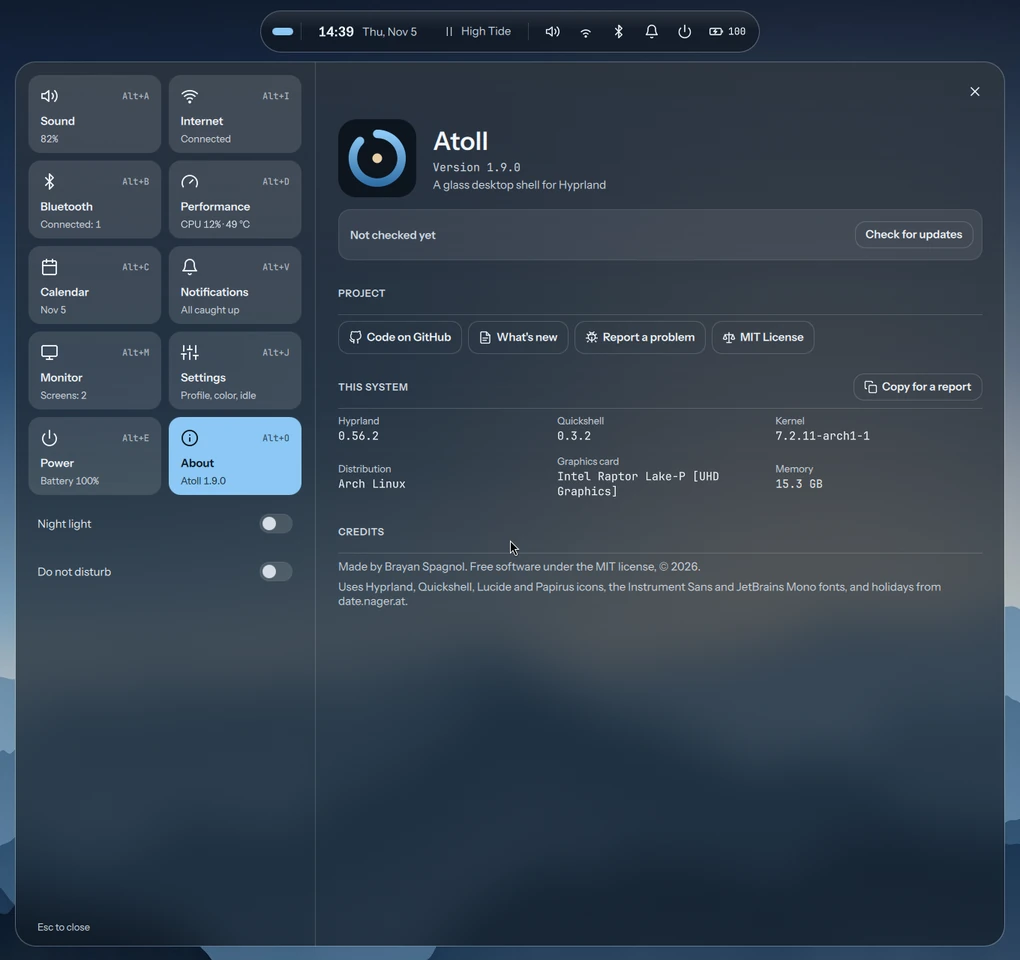
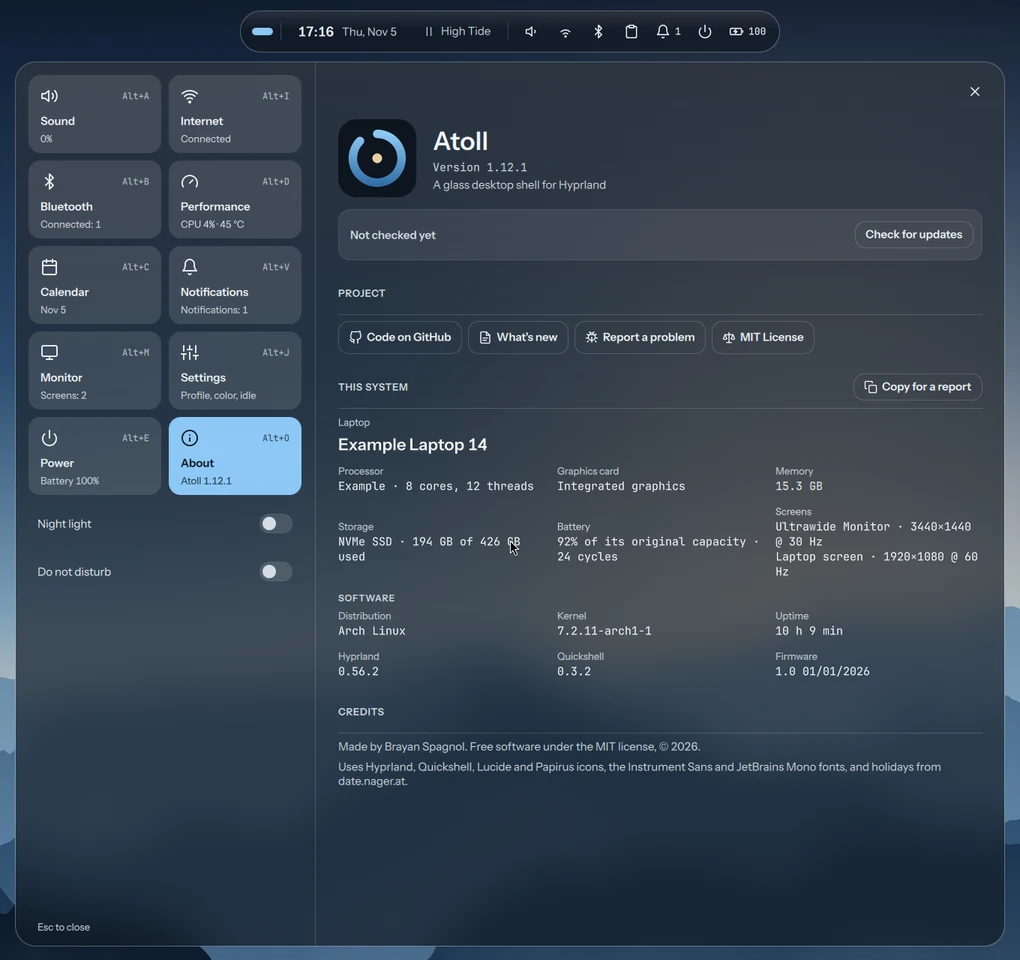
feat: computer details in About

diff --git a/shell/PgAbout.qml b/shell/PgAbout.qml
@@ -18,7 +18,15 @@ Page {
     property string updateError: ""
     property bool packaged: false // installed by a package manager, which then owns updates
     readonly property bool hasUpdate: !!latest && P.newerVersion(latest, Ui.version)
-    readonly property string report: "Atoll " + Ui.version + "\n" + facts.trim() + "\nMemory=" + P.bytes(Sys.memInfo.total)
+    readonly property string model: P.modelName(info.Vendor, info.Product, info.ProductVersion)
+    readonly property string kind: P.chassisKind(info.Chassis)
+    readonly property string cpu: P.cpuName(info.CPU) + (info.Threads ? " · " + Tr.t("%1 cores, %2 threads").arg(info.Cores || "?").arg(info.Threads) : "")
+    readonly property string disk: info.DiskSize ? (info.Disk ? info.Disk + " · " : "") + Tr.t("%1 of %2 used").arg(P.bytes(Number(info.DiskUsed))).arg(P.bytes(Number(info.DiskSize))) : ""
+    readonly property string battery: info.BatteryHealth ? Tr.t("%1% of its original capacity").arg(info.BatteryHealth) + (info.BatteryCycles && info.BatteryCycles !== "0" ? " · " + Tr.t("%1 cycles").arg(info.BatteryCycles) : "") : ""
+    readonly property string screens: Displays.monitors.filter(m => m.on).map(m => Displays.labelOf(m) + " · " + m.w + "×" + m.h + " @ " + Math.round(Number(m.rate)) + " Hz").join("\n")
+    readonly property string report: ["Atoll " + Ui.version, "Model=" + model, "CPU=" + cpu, "GPU=" + (info.GPU ?? ""), "Memory=" + P.bytes(Sys.memInfo.total),
+        "Disk=" + disk, "Battery=" + battery, "Screens=" + screens.replace(/\n/g, "; "), "Firmware=" + (info.Firmware ?? "").trim(),
+        "Distribution=" + (info.Distribution ?? ""), "Kernel=" + (info.Kernel ?? ""), "Hyprland=" + (info.Hyprland ?? ""), "Quickshell=" + (info.Quickshell ?? "")].join("\n")
 
     component Fact: ColumnLayout {
         property string k: ""; property string val: ""
@@ -41,6 +49,27 @@ Page {
             echo "Kernel=$(uname -r)"
             echo "Distribution=$(. /etc/os-release 2>/dev/null; echo "$NAME")"
             echo "GPU=$(command -v lspci >/dev/null && lspci | grep -Ei 'vga|3d' | head -1 | cut -d: -f3- | sed 's/^ *//; s/ Corporation//; s/ (rev.*//')"
+            d=/sys/class/dmi/id
+            echo "Vendor=$(cat $d/sys_vendor 2>/dev/null)"
+            echo "Product=$(cat $d/product_name 2>/dev/null)"
+            echo "ProductVersion=$(cat $d/product_version 2>/dev/null)"
+            echo "Chassis=$(cat $d/chassis_type 2>/dev/null)"
+            echo "Firmware=$(cat $d/bios_version 2>/dev/null) $(cat $d/bios_date 2>/dev/null)"
+            echo "CPU=$(grep -m1 'model name' /proc/cpuinfo | cut -d: -f2-)"
+            echo "Cores=$(lscpu -p=CORE,SOCKET 2>/dev/null | grep -v '^#' | sort -u | wc -l)"
+            echo "Threads=$(nproc)"
+            root=$(findmnt -no SOURCE / | cut -d[ -f1); disk=$(lsblk -no PKNAME "$root" 2>/dev/null | head -1)
+            echo "Disk=$(lsblk -dno MODEL "/dev/\${disk:-x}" 2>/dev/null | sed 's/ *$//')"
+            echo "DiskSize=$(df -B1 --output=size / | tail -1 | tr -d ' ')"
+            echo "DiskUsed=$(df -B1 --output=used / | tail -1 | tr -d ' ')"
+            for b in /sys/class/power_supply/BAT*; do
+                [ -e "$b" ] || continue
+                full=$(cat $b/energy_full $b/charge_full 2>/dev/null | head -1); design=$(cat $b/energy_full_design $b/charge_full_design 2>/dev/null | head -1)
+                echo "BatteryHealth=$([ -n "$design" ] && [ "$design" -gt 0 ] && echo $((full * 100 / design)))"
+                echo "BatteryCycles=$(cat $b/cycle_count 2>/dev/null)"
+                break
+            done
+            echo "Uptime=$(cut -d. -f1 /proc/uptime)"
         `]
         stdout: StdioCollector { onStreamFinished: pg.facts = text }
     }
@@ -129,14 +158,26 @@ Page {
     }
     Tx { visible: copied.running; text: Tr.t("Copied."); color: Theme.good }
     Timer { id: copied; interval: 2500 }
+    Tx { text: pg.kind === "laptop" ? Tr.t("Laptop") : pg.kind === "desktop" ? Tr.t("Desktop") : Tr.t("Computer"); dim: true; size: 13; Layout.topMargin: 2 }
+    Tx { text: pg.model || "—"; size: 22; strong: true; Layout.fillWidth: true; wrapMode: Text.Wrap }
     GridLayout {
-        Layout.fillWidth: true; columns: 3; columnSpacing: 16; rowSpacing: 16
-        Fact { k: "Hyprland"; val: pg.info.Hyprland ?? "" }
-        Fact { k: "Quickshell"; val: pg.info.Quickshell ?? "" }
-        Fact { k: Tr.t("Kernel"); val: pg.info.Kernel ?? "" }
-        Fact { k: Tr.t("Distribution"); val: pg.info.Distribution ?? "" }
+        Layout.fillWidth: true; Layout.topMargin: 6; columns: 3; columnSpacing: 16; rowSpacing: 16
+        Fact { k: Tr.t("Processor"); val: pg.cpu }
         Fact { k: Tr.t("Graphics card"); val: pg.info.GPU ?? "" }
         Fact { k: Tr.t("Memory"); val: P.bytes(Sys.memInfo.total) }
+        Fact { k: Tr.t("Storage"); val: pg.disk }
+        Fact { visible: !!pg.battery; k: Tr.t("Battery"); val: pg.battery }
+        Fact { k: Tr.t("Screens"); val: pg.screens }
+    }
+    Tx { text: Tr.t("Software").toUpperCase(); dim: true; size: 12; strong: true; font.letterSpacing: 1; Layout.topMargin: 10 }
+    GridLayout {
+        Layout.fillWidth: true; columns: 3; columnSpacing: 16; rowSpacing: 16
+        Fact { k: Tr.t("Distribution"); val: pg.info.Distribution ?? "" }
+        Fact { k: Tr.t("Kernel"); val: pg.info.Kernel ?? "" }
+        Fact { k: Tr.t("Uptime"); val: pg.info.Uptime ? P.duration(Number(pg.info.Uptime)) : "" }
+        Fact { k: "Hyprland"; val: pg.info.Hyprland ?? "" }
+        Fact { k: "Quickshell"; val: pg.info.Quickshell ?? "" }
+        Fact { k: Tr.t("Firmware"); val: (pg.info.Firmware ?? "").trim() }
     }
 
     Sec { title: Tr.t("Credits") }

diff --git a/shell/parse.js b/shell/parse.js
@@ -128,3 +128,35 @@ function emojiSearch(entries, query) {
     }
     return tiers[0].concat(tiers[1], tiers[2], tiers[3])
 }
+
+// DMI names are often a part number ("82AB") with the marketing name in the version field, or placeholders.
+function modelName(vendor, name, version) {
+    const junk = /^(|none|n\/a|default string|system (product name|version)|to be filled by o\.e\.m\.|not applicable|0+|\d+(\.\d+)*)$/i
+    const clean = s => (s || "").trim()
+    let v = clean(vendor).replace(/,? (inc|corporation|co\.,? ltd|ltd|gmbh)\.?$/i, "")
+    if (v === v.toUpperCase() && v.length > 3) v = v.charAt(0) + v.slice(1).toLowerCase()
+    const n = clean(name), ver = clean(version)
+    const coded = !/\s/.test(n) && n.length <= 8 && /\d/.test(n)
+    const pick = coded && !junk.test(ver) ? ver : junk.test(n) ? "" : n
+    if (!pick) return v
+    return pick.toLowerCase().startsWith(v.toLowerCase()) ? pick : (v + " " + pick).trim()
+}
+// SMBIOS chassis types: the portable ones are laptops.
+function chassisKind(code) {
+    const c = Number(code)
+    if ([8, 9, 10, 11, 14, 30, 31, 32].includes(c)) return "laptop"
+    if ([3, 4, 5, 6, 7, 13, 15, 16, 35, 36].includes(c)) return "desktop"
+    return ""
+}
+function cpuName(raw) {
+    return (raw || "").trim().replace(/\((R|TM)\)/gi, "").replace(/^\d+(th|st|nd|rd) Gen /i, "").replace(/ CPU @.*$/i, "").replace(/ with Radeon.*$/i, "")
+        .replace(/ \d+-Core Processor$/i, "").replace(/\s+/g, " ").trim()
+}
+// "2 d 3 h", "3 h 20 min" or "12 min".
+function duration(seconds) {
+    const m = Math.floor(seconds / 60), h = Math.floor(m / 60), d = Math.floor(h / 24)
+    if (d) return d + " d " + (h % 24) + " h"
+    if (h) return h + " h " + (m % 60) + " min"
+    return m + " min"
+}
+

diff --git a/CHANGELOG.md b/CHANGELOG.md
@@ -6,6 +6,12 @@ All notable changes to this project are documented here. The format follows
 
 ## [Unreleased]
 
+## [1.13.0] - 2026-11-05
+
+### Added
+
+- About shows the computer's model and type, processor with cores and threads, storage with its use, battery health and charge cycles, screens, uptime and firmware, and includes them in the report.
+
 ## [1.12.1] - 2026-11-05
 
 ### Fixed
@@ -211,7 +217,8 @@ All notable changes to this project are documented here. The format follows
 - Lock screen, idle timers, night light and monitor brightness.
 - Installer, uninstaller, automated tests and an original default wallpaper.
 
-[Unreleased]: https://github.com/brayanspagnol/atoll/compare/v1.12.1...HEAD
+[Unreleased]: https://github.com/brayanspagnol/atoll/compare/v1.13.0...HEAD
+[1.13.0]: https://github.com/brayanspagnol/atoll/compare/v1.12.1...v1.13.0
 [1.12.1]: https://github.com/brayanspagnol/atoll/compare/v1.12.0...v1.12.1
 [1.12.0]: https://github.com/brayanspagnol/atoll/compare/v1.11.0...v1.12.0
 [1.11.0]: https://github.com/brayanspagnol/atoll/compare/v1.10.1...v1.11.0

diff --git a/README.pt-BR.md b/README.pt-BR.md
@@ -31,7 +31,7 @@ Os prints estão no [README em inglês](README.md#screenshots).
 - **Ociosidade e energia:** tempos de bloqueio, desligar a tela e suspender para tomada e bateria, cada um com a opção Nunca, modos de energia e luz noturna com horário próprio.
 - **Teclado e mouse:** layouts, velocidade do ponteiro, rolagem natural e opções do touchpad em Ajustes.
 - **Internet:** Wi-Fi com redes ocultas e corporativas (802.1X: PEAP, TTLS e TLS com certificado), mais arquivos WireGuard e OpenVPN que você importa.
-- **Sobre:** versão, atualização com um clique, links do projeto e dados do sistema para relatar bugs.
+- **Sobre:** versão, atualização com um clique, links do projeto e dados do seu computador (modelo, processador, vídeo, memória, armazenamento, saúde da bateria, telas e software) para consultar ou colar ao relatar bugs.
 - **Resistente:** se o shell cair, ele volta sozinho. Suas janelas continuam abertas.
 
 ## Requisitos

diff --git a/README.md b/README.md
@@ -33,7 +33,7 @@ wallpaper, and windows keep the rest of the screen.
 - **Idle and power:** lock, screen off and suspend times per power source, each with a Never option, power modes, and a night light with its own schedule.
 - **Keyboard and mouse:** layouts, pointer speed, natural scrolling and touchpad options in Settings.
 - **Internet:** Wi-Fi with hidden and enterprise (802.1X: PEAP, TTLS and certificate-based TLS) networks, plus WireGuard and OpenVPN files you import.
-- **About:** version, one-click update, project links and system details to paste in a bug report.
+- **About:** version, one-click update, project links, and your computer's details (model, processor, graphics, memory, storage, battery health, screens and software) to read or paste in a bug report.
 - **Resilient by design:** if the shell crashes, it restarts by itself. Your windows stay open.
 
 ## Screenshots
